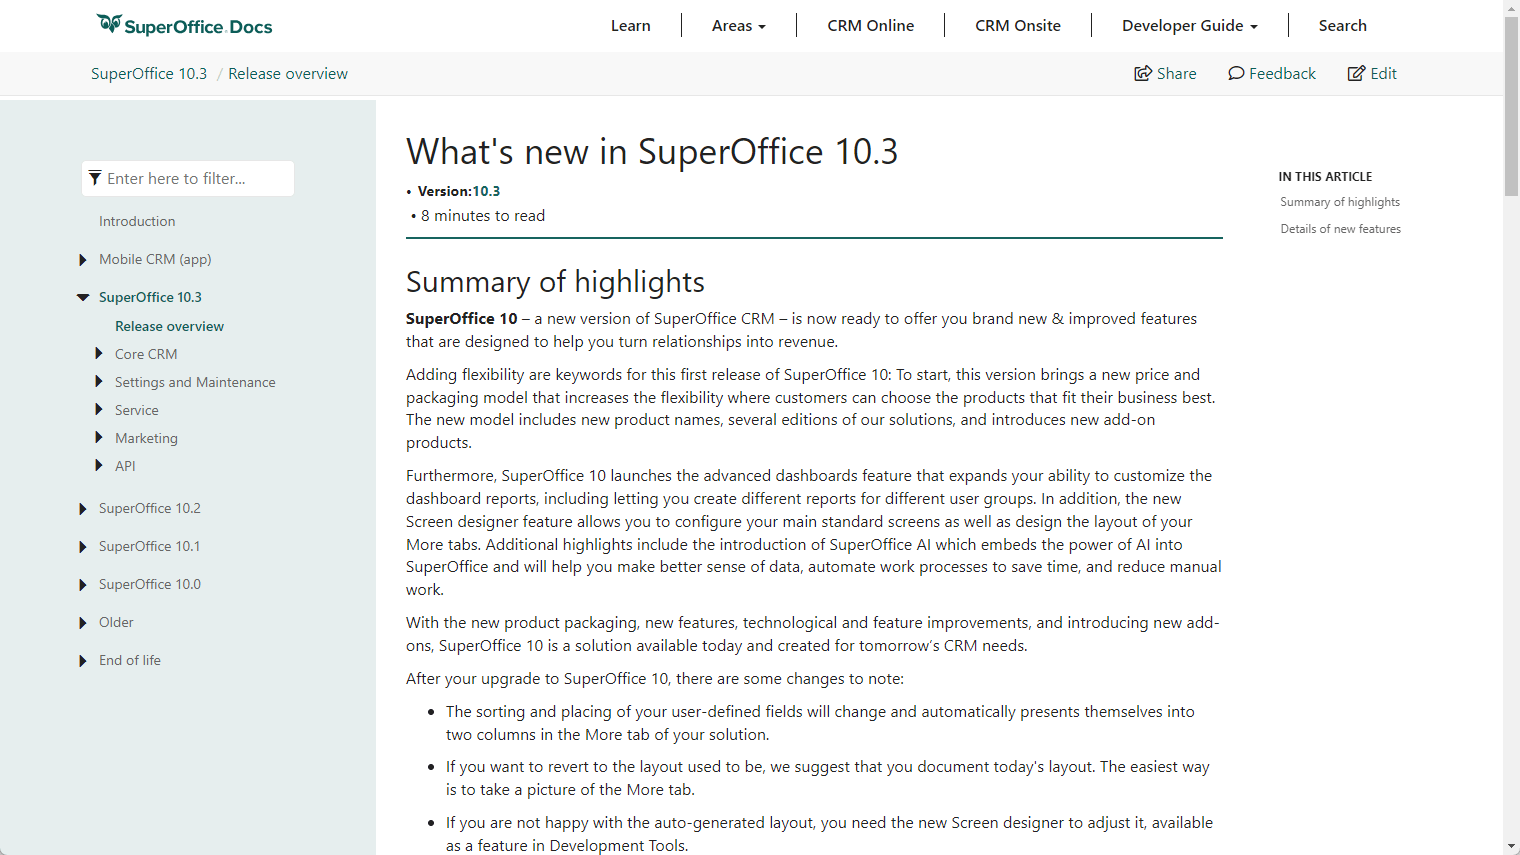
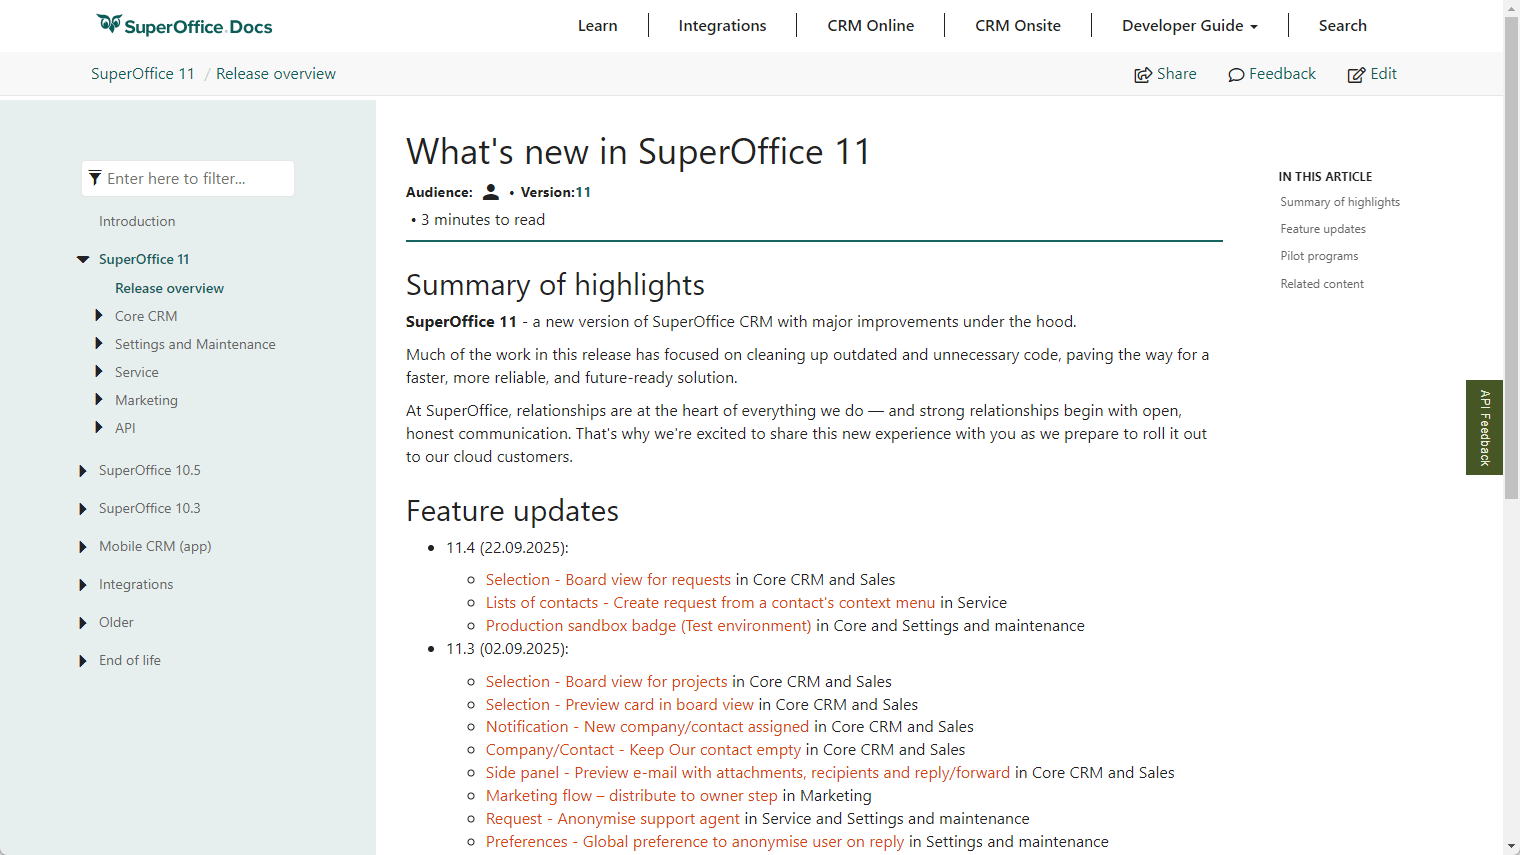
#2299 Last changes after handover meeting

diff --git a/release-notes/11/index.md b/release-notes/11/index.md
@@ -23,37 +23,43 @@ At SuperOffice, relationships are at the heart of everything we do — and stron
 
 ## Feature updates
 
-* 11.5 (13.10.2025):
-  * [Selection - Board view Setting for displaying days][12] in Core CRM and Sales
-  * [Marketing Form - View mode shows Direct link in Publish][14] in Marketing
-  * [Request types with different icons][16] in Service
+### 11.5 (13.10.2025)
 
-* 11.4 (22.09.2025):
-  * [Selection - Board view for requests][10] in Core CRM and Sales
-  * [Dashboard - Copy dashboard link][10] in Core CRM and Sales
-  * [Lists of contacts - Create request from a contact's context menu][11] in Service
-  * [Production sandbox badge (Test environment)][10] in Core and Settings and maintenance
+* [Selection - Board view Setting for displaying days][12] in Core CRM and Sales
+* [Marketing Form - Publish with a direct link][14] in Marketing
+* [Request types with different icons][16] in Service
+* [Requests - Request types with different icons][18] in Settings and maintenance
 
-* 11.3 (02.09.2025):
-  * [Selection - Board view for projects][6] in Core CRM and Sales
-  * [Selection - Preview card in board view][6] in Core CRM and Sales
-  * [Notification - New company/contact assigned][6] in Core CRM and Sales
-  * [Company/Contact - Keep Our contact empty][6] in Core CRM and Sales
-  * [Side panel - Preview e-mail with attachments, recipients and reply/forward][6] in Core CRM and Sales
-  * [Marketing Flow – distribute to owner step][7] in Marketing
-  * [Request - Anonymise support agent][8] in Service and Settings and maintenance
-  * [Preferences - Global preference to anonymise user on reply][9] in Settings and maintenance
-  * [CRMScript - Trigger for Load request][9] in Settings and maintenance
+### 11.4 (22.09.2025)
 
-* 11.2 (17.06.2025):
-  * [Selection - Board view for sales][4] in Core CRM and Sales
-  * [Request - Reply tools in Request properties][5] in Service
-  * [Request - Pin request lists to the tab bar][5] in Service
-  * [Request - Show all linked contacts][5] in Service
+* [Selection - Board view for requests][10] in Core CRM and Sales
+* [Dashboard - Copy dashboard link][10] in Core CRM and Sales
+* [Lists of contacts - Create request from a contact's context menu][11] in Service
+* [Production sandbox badge (Test environment)][10] in Core and Settings and maintenance
 
-* 11.1 (09.06.2025):
-  * [System design - Setting a field as read-only][1] in Settings and maintenance
-  * [Request - Search will give same result as in navigator search][3] in Service
+### 11.3 (02.09.2025)
+
+* [Selection - Board view for projects][6] in Core CRM and Sales
+* [Selection - Preview card in board view][6] in Core CRM and Sales
+* [Notification - New company/contact assigned][6] in Core CRM and Sales
+* [Company/Contact - Keep Our contact empty][6] in Core CRM and Sales
+* [Side panel - Preview e-mail with attachments, recipients and reply/forward][6] in Core CRM and Sales
+* [Marketing Flow – distribute to owner step][7] in Marketing
+* [Request - Anonymise support agent][8] in Service and Settings and maintenance
+* [Preferences - Global preference to anonymise user on reply][9] in Settings and maintenance
+* [CRMScript - Trigger for Load request][9] in Settings and maintenance
+
+### 11.2 (17.06.2025)
+
+* [Selection - Board view for sales][4] in Core CRM and Sales
+* [Request - Reply tools in Request properties][5] in Service
+* [Request - Pin request lists to the tab bar][5] in Service
+* [Request - Show all linked contacts][5] in Service
+
+### 11.1 (09.06.2025)
+
+* [System design - Setting a field as read-only][1] in Settings and maintenance
+* [Request - Search will give same result as in navigator search][3] in Service
 
 ## Pilot programs
 
@@ -84,6 +90,7 @@ Some features are available to selected customers as part of ongoing pilots. See
 [15]: ../mobile/index.md
 [16]: service/11.5-update.md
 [17]: ../index.md
+[18]: admin/11.5-update.md
 [30]: https://community.superoffice.com/en/product-releases/release-notes/
 [34]: https://appstore.superoffice.com/
 [35]: https://appstore.superoffice.com/Category/new-and-updated

diff --git a/release-notes/11/marketing/11.5-update.md b/release-notes/11/marketing/11.5-update.md
@@ -16,20 +16,11 @@ audience_tooltip: SuperOffice CRM
 
 # Marketing 11.5 update
 
-## Marketing Form - View mode shows Direct link in Publish
+## Marketing Form - Publish with a direct link
 
-Simple url builder for users linking directly to SuperOffice Forms
-For some users, basic UTM capturing for specific forms might be the most important user scenario. For example they would like to link directly to a form from a mailing, or they would like to send a form link to a partner, having them to publish the same direct link.
+Want to share your form quickly and easily? Use the **Direct link** from the **Publish** tab. Whether you’re adding it to an e-mail campaign or linking it from a web page, the Direct link makes publishing fast and effortless.
 
-For these user scenarios it would be useful for the user to get some assistance with building up the url, without having to navigate elsewhere to a url builder just for creating one link.
-
-In Forms, on the Publish tab, we offer as simple url builder, enabling the user both to add template variables and utm parameters to the link.
-
-* Field for building a url with utm parameters should only be visible if the preference enabling utm parameters is turned on, and only if the utm so_module license is till available.
-
-* Adding data in one of the input fields should cause the link to be extended with the corresponding utm parameter and data, enabling the user to copy the current link.
-
-* Consider if saving the latest utm parameters is necessary. There is not probably no need for saving the data, as utm parameters will typically be varied depending on which source the link should be published in. Hence being able to copy the link while working on this should be enough.
+You can even pre-populate fields, saving your recipients time and making it more likely they’ll complete the form.
 
 ![Marketing Form shows the direct link for Publish -screenshot][img1]
 

diff --git a/release-notes/11/core-crm/11.5-update.md b/release-notes/11/core-crm/11.5-update.md
@@ -16,20 +16,22 @@ audience_tooltip: SuperOffice CRM
 
 # Core CRM and Sales 11.5 update
 
-## Selection - Board view Setting for displaying days
+## Selection of sales - Board view Setting for displaying days
 
-You can do a lot in the Board view setting to make the board work better for you.
+You can do a lot in the **Board view setting** to make the board work better for you.
 
-In the setting for sale date badge
-Sale date badge: decides what the number in the grey badge displayed behind the sale date field means. Two possibilities:
+In the **Settings** for board view for sale selections, you can select two different options for the **sale date badge**, the number in the grey badge displayed behind the sale date on the card:
 
-**Days in stage**: shows number of days the sale has been in this stage. Should calculate the total number even if the sale has been visiting other stages since registration. Tooltip: total number of days in this stage.
+* **Days in stage**: shows number of days the sale has been in this stage.
 
-**Days since registered**: shows number of days since the sale was first registered. Tooltip: number of days since registered.
+* **Days since registered** (default setting): shows number of days since the sale was first registered.
 
 ![Board view showing request in a visual pipeline -screenshot][img1]
+
+> [!TIP]
+> Use the checkbox **Save settings for all users viewing this board** to apply your fine-tuning to everyone. This ensures that all users of the selection see the same customised board settings.
 
 <!-- Referenced links-->
 
 <!-- Referenced images -->
-[img1]: ../../../docs/media/loc/en/search-options/selection-board-view-request.png
+[img1]: ../../../docs/media/loc/en/search-options/board-view-settings-sale-date-badge.png

diff --git a/release-notes/11/admin/11.5-update.md b/release-notes/11/admin/11.5-update.md
@@ -18,9 +18,9 @@ audience_tooltip: SuperOffice CRM
 
 ## Requests - Request types with different icons
 
-To make it easier to distinguish between different request types, you can choose an icon to each one.
+To make it easier to distinguish between **different request types**, you can choose an **icon** to each one.
 
-Choose from a set of default icons and select the one that best matches the request type. The chosen icon will then be displayed for agents, making it simple to tell request types apart at a glance.
+Choose from a set of **default icons** and select the one that best matches the request type. The chosen icon will then be displayed for agents, making it simple to tell request types apart at a glance.
 
 ![The request type drop down shows an icon in front – screenshot][img1]
 

diff --git a/release-notes/index.md b/release-notes/index.md
@@ -63,7 +63,7 @@ We use **pilot programs** to assess how well the features and functions meet our
 * [SuperOffice CRM - AI Lab][16] (available from 10.3.2 - 20.02.2024)
 * [SuperOffice Service - New Service Request][16] (available on demand from 10.2.1 - 27.01.2023)
 
-## How to navigate this section
+## How to navigate this content
 
 ![What's new -screenshot][img4]
 

diff --git a/release-notes/11/marketing/index.md b/release-notes/11/marketing/index.md
@@ -14,7 +14,7 @@ audience_tooltip: SuperOffice CRM
 
 # New and improved Marketing
 
-* [Marketing Form - View mode shows Direct link in Publish (11.5)][5]
+* [Marketing Form - Publish with a direct link (11.5)][5]
 * [Marketing Flow – distribute to owner step (11.3)][3]
 
 <!-- Referenced links-->
